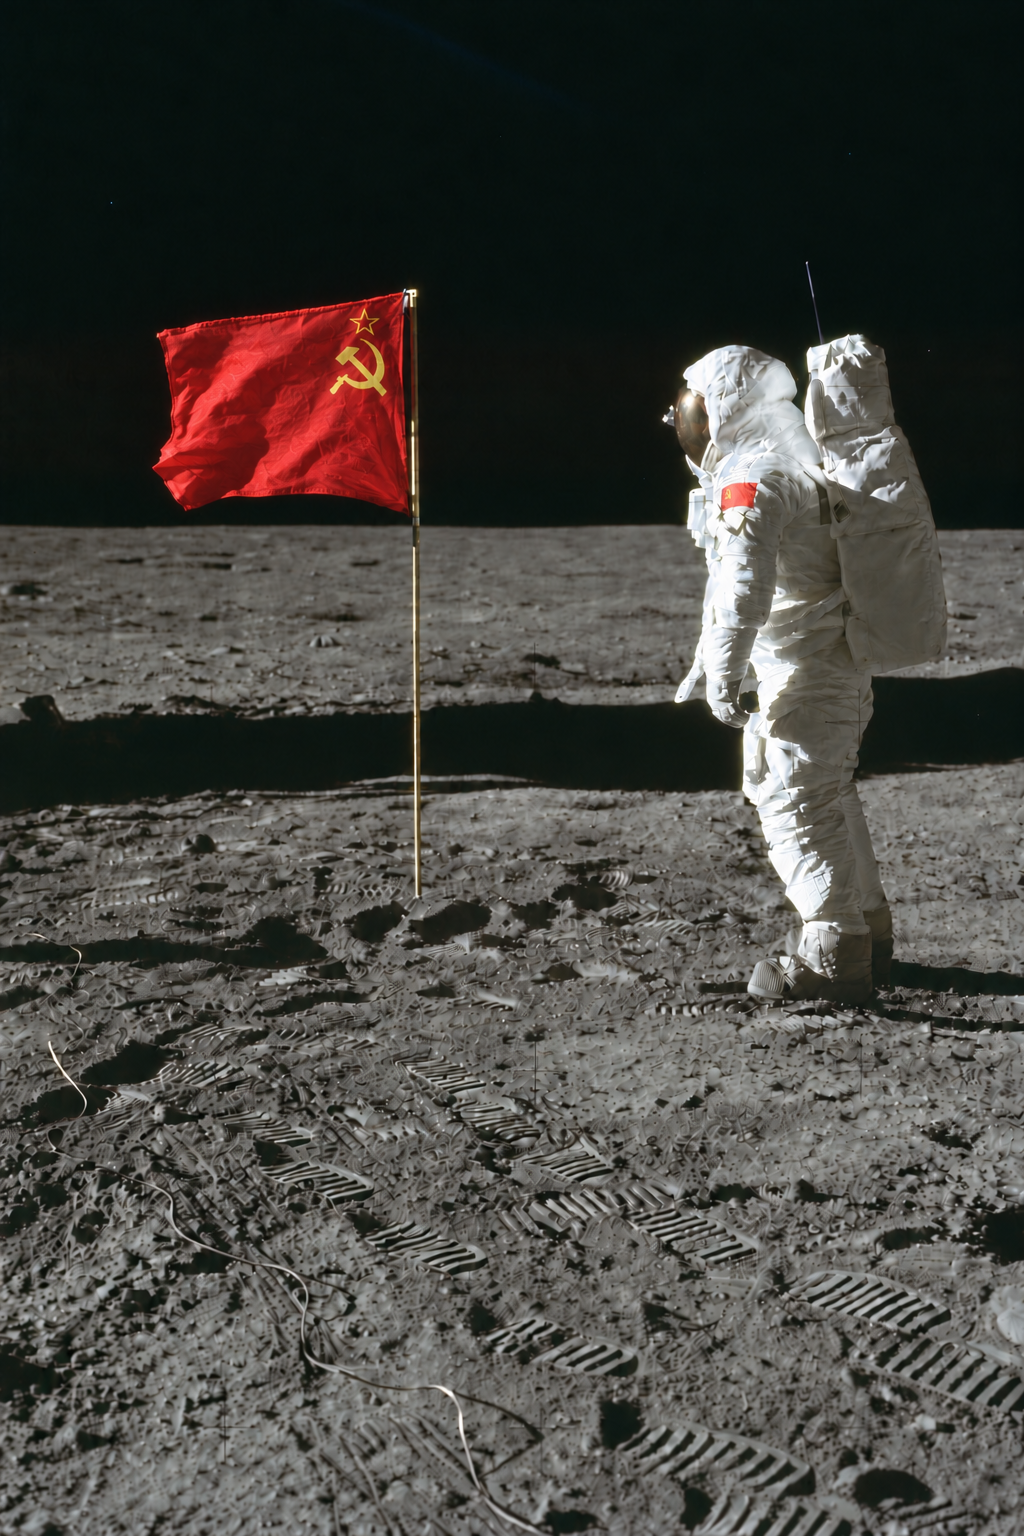
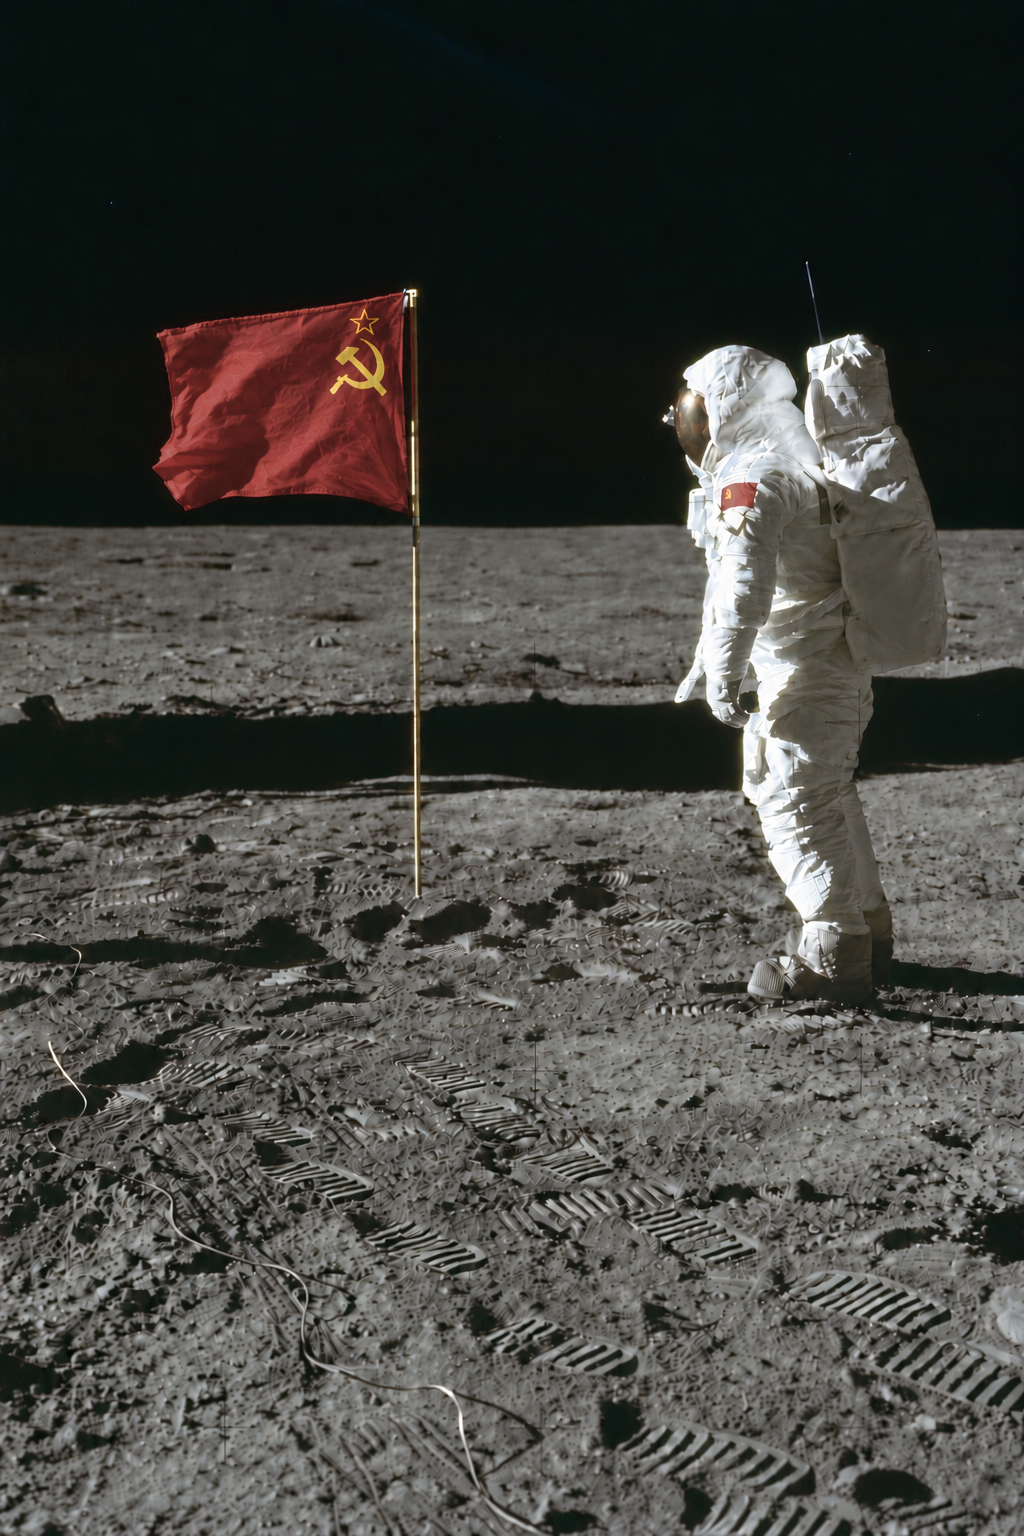
Match Apollo flag reds to muted reference without regeneration

Changed region(s): [[0.1562, 0.1875, 0.4062, 0.3438], [0.6875, 0.3125, 0.75, 0.3438]]

diff --git a/projects/false-negative/originals/Apollo 11 moonlanding/color-match/match_flag_red.py b/projects/false-negative/originals/Apollo 11 moonlanding/color-match/match_flag_red.py
@@ -1,0 +1,162 @@
+"""Match only flag reds to the existing muted-red artwork; never regenerate pixels.
+
+Run from any directory with Python, NumPy and Pillow. Inputs come from the fixed
+pre-grade Git revision, so rerunning this script does not compound the adjustment.
+The local reference PNG is read only. The six artwork PNGs and report are updated.
+"""
+
+import hashlib
+import io
+import json
+from pathlib import Path
+import subprocess
+
+import numpy as np
+from PIL import Image
+
+
+FOLDER = Path(__file__).resolve().parent.parent
+BASELINE = "b05f119926586eedf489a7c5d04b1c6436294976"
+REFERENCE = "Soviet Flag on the Moon.png"
+REFERENCE_BOX = (440, 270, 660, 440)
+# Tight flag-area bounds: planted cloth, shoulder patches, backpack and decal.
+# The number selects how many initial areas supply the photo's color sample.
+REGIONS = {
+    "Soviet Flag - Alternate Astronaut Pose.png": (
+        [(148, 285, 410, 525), (713, 477, 762, 518)], 1),
+    "Soviet Flag - Open Ground and Solar Wind Experiment.png": (
+        [(1027, 204, 1219, 347)], 1),
+    "Soviet Flag - Long Shadows.png": ([(327, 130, 559, 340)], 1),
+    "Soviet Flag - Working Beside the Lunar Module.png": (
+        [(90, 269, 291, 412), (1255, 357, 1288, 386),
+         (1363, 308, 1435, 370)], 1),
+    "Soviet Flags - Lunar Surface Portrait.png": ([(623, 292, 727, 380)], 1),
+    "Soviet Flags - Apollo Crew Portrait.png": (
+        [(508, 545, 599, 642), (892, 305, 1016, 402),
+         (1329, 582, 1475, 680)], 3),
+}
+
+
+def rgb_to_hsv(rgb):
+    high, low = rgb.max(axis=-1), rgb.min(axis=-1)
+    delta = high - low
+    safe_delta = np.where(delta > 0, delta, 1)
+    red, green, blue = np.moveaxis(rgb, -1, 0)
+    hue = np.where(high == red, (green - blue) / safe_delta,
+                   np.where(high == green, 2 + (blue - red) / safe_delta,
+                            4 + (red - green) / safe_delta))
+    hue = np.where(delta > 0, (hue / 6) % 1, 0)
+    saturation = np.divide(delta, high, out=np.zeros_like(high), where=high > 0)
+    return np.stack((hue, saturation, high), axis=-1)
+
+
+def hsv_to_rgb(hsv):
+    hue, saturation, value = np.moveaxis(hsv, -1, 0)
+    sector = np.floor(hue * 6).astype(int) % 6
+    fraction = hue * 6 - np.floor(hue * 6)
+    p = value * (1 - saturation)
+    q = value * (1 - fraction * saturation)
+    t = value * (1 - (1 - fraction) * saturation)
+    red = np.choose(sector, (value, q, p, p, t, value))
+    green = np.choose(sector, (t, value, value, q, p, p))
+    blue = np.choose(sector, (p, p, t, value, value, q))
+    return np.stack((red, green, blue), axis=-1)
+
+
+def smoothstep(low, high, value):
+    position = np.clip((value - low) / (high - low), 0, 1)
+    return position * position * (3 - 2 * position)
+
+
+def red_weight(rgb):
+    hsv = rgb_to_hsv(rgb)
+    hue_distance = np.minimum(hsv[..., 0], 1 - hsv[..., 0])
+    # Protect yellow/gold emblems, neutral stitching, suits and mixed edge pixels.
+    hue_weight = 1 - smoothstep(0.035, 0.080, hue_distance)
+    redness = (rgb[..., 0] - np.maximum(rgb[..., 1], rgb[..., 2]))
+    redness /= np.maximum(rgb[..., 0], 1 / 255)
+    return (hue_weight * smoothstep(0.10, 0.30, redness)
+            * smoothstep(0.025, 0.075, hsv[..., 2]))
+
+
+def color_sample(rgb, boxes):
+    samples = []
+    for x0, y0, x1, y1 in boxes:
+        crop = rgb[y0:y1, x0:x1]
+        hsv = rgb_to_hsv(crop)
+        core = ((red_weight(crop) > 0.999) & (hsv[..., 2] > 0.15)
+                & (hsv[..., 2] < 0.95))
+        samples.append(hsv[core])
+    samples = np.concatenate(samples)
+    if len(samples) < 50:
+        raise ValueError("Insufficient red flag pixels for a reliable color sample")
+    hue = np.median((samples[:, 0] + 0.5) % 1 - 0.5) % 1
+    return np.array([hue, np.median(samples[:, 1]), np.median(samples[:, 2])])
+
+
+def main():
+    root = Path(subprocess.check_output(
+        ["git", "rev-parse", "--show-toplevel"], cwd=FOLDER, text=True).strip())
+    reference_bytes = (FOLDER / REFERENCE).read_bytes()
+    reference = np.array(Image.open(io.BytesIO(reference_bytes)).convert("RGB")) / 255
+    target = color_sample(reference, [REFERENCE_BOX])
+    report = {"baseline_commit": BASELINE, "reference": REFERENCE,
+              "reference_sha256": hashlib.sha256(reference_bytes).hexdigest(),
+              "reference_median_hsv": target.tolist(), "images": []}
+    for name, (boxes, sample_count) in REGIONS.items():
+        relative = (FOLDER / name).relative_to(root).as_posix()
+        source_bytes = subprocess.check_output(
+            ["git", "show", f"{BASELINE}:{relative}"], cwd=root)
+        source_image = Image.open(io.BytesIO(source_bytes)).convert("RGB")
+        original = np.array(source_image)
+        rgb = original.astype(float) / 255
+        sample = color_sample(rgb, boxes[:sample_count])
+        hue_shift = (target[0] - sample[0] + 0.5) % 1 - 0.5
+        saturation_scale = min(1.0, target[1] / sample[1])
+        value_scale = min(1.0, target[2] / sample[2])
+        result = original.copy()
+        permitted = np.zeros(original.shape[:2], dtype=bool)
+        protected = np.ones(original.shape[:2], dtype=bool)
+        for x0, y0, x1, y1 in boxes:
+            crop = rgb[y0:y1, x0:x1]
+            weight = red_weight(crop)
+            hsv = rgb_to_hsv(crop)
+            hsv[..., 0] = (hsv[..., 0] + hue_shift) % 1
+            hsv[..., 1] *= saturation_scale
+            hsv[..., 2] *= value_scale
+            graded = hsv_to_rgb(hsv)
+            blended = crop + weight[..., None] * (graded - crop)
+            result[y0:y1, x0:x1] = np.clip(np.rint(blended * 255), 0, 255).astype(np.uint8)
+            permitted[y0:y1, x0:x1] |= weight > 0
+            protected[y0:y1, x0:x1] &= weight == 0
+        changed = np.any(result != original, axis=-1)
+        assert not np.any(changed & ~permitted), "A pixel outside a red mask changed"
+        assert np.array_equal(result[protected], original[protected])
+        assert source_image.size in ((1536, 1024), (1024, 1536))
+        Image.fromarray(result).save(FOLDER / name)
+        with Image.open(FOLDER / name) as saved:
+            saved.verify()
+        assert np.array_equal(np.array(Image.open(FOLDER / name)), result)
+        after = color_sample(result / 255, boxes[:sample_count])
+        assert abs(after[1] - target[1]) < 0.02
+        assert abs(after[2] - target[2]) < 0.02
+        entry = {"file": name, "flag_regions": boxes,
+                 "hue_shift_degrees": float(hue_shift * 360),
+                 "saturation_scale": float(saturation_scale),
+                 "value_scale": float(value_scale),
+                 "median_hsv_before": sample.tolist(),
+                 "median_hsv_after": after.tolist(),
+                 "changed_pixels": int(changed.sum()),
+                 "outside_red_masks_unchanged": True,
+                 "gold_and_neutral_pixels_unchanged": True,
+                 "output_sha256": hashlib.sha256((FOLDER / name).read_bytes()).hexdigest()}
+        report["images"].append(entry)
+        print(f"{name}: saturation x{saturation_scale:.3f}, brightness x{value_scale:.3f}; "
+              f"{changed.sum()} flag pixels changed, other pixels identical")
+    assert (FOLDER / REFERENCE).read_bytes() == reference_bytes
+    (Path(__file__).parent / "adjustments.json").write_text(
+        json.dumps(report, indent=2) + "\n", encoding="utf-8")
+
+
+if __name__ == "__main__":
+    main()

diff --git a/projects/false-negative/originals/Apollo 11 moonlanding/NEW-EDITS.md b/projects/false-negative/originals/Apollo 11 moonlanding/NEW-EDITS.md
@@ -1,6 +1,6 @@
 # False Negatives - additional Apollo 11 edits
 
-Created and revised 2 November 2026 with the built-in image_gen tool. Six fictional AI-edited artworks substitute Soviet flags throughout each frame, including flags on suits, backpacks and spacecraft wherever visible. Three landscapes are 1536 x 1024 (3:2); three portraits are 1024 x 1536 (2:3).
+Created and revised 2 November 2026. The initial edits used the built-in image_gen tool; the final red color match uses local Python/Pillow/NumPy processing without regeneration. Six fictional artworks substitute Soviet flags throughout each frame, including flags on suits, backpacks and spacecraft wherever visible. Three landscapes are 1536 x 1024 (3:2); three portraits are 1024 x 1536 (2:3).
 
 | Image | Local source | Pixels | Prompts |
 | --- | --- | --- | --- |
@@ -13,4 +13,6 @@ Created and revised 2 November 2026 with the built-in image_gen tool. Six fictio
 
 The four planted-flag views were corrected again to remove residual American stripes and star patterns. The final edits use the plain red cloth in Soviet Flag on the Moon.png as their design and material reference, replacing the old surface with continuous red fabric, irregular folds, and a single gold hammer-and-sickle with an outlined star near the hoist. Cloth folds were allowed to change to eliminate the old pattern. Soviet designs also replace the alternate-pose astronaut's shoulder flag and both the backpack patch and spacecraft decal in the lunar-module view. The lunar-surface portrait replaces its visible sleeve flag; the crew portrait replaces all three sleeve flags. Patches retain cloth texture and spacecraft markings remain flat decals. NASA badges and name labels are retained.
 
-All six outputs were visually reviewed, including small flag areas. The four corrected planted flags were checked specifically for stripe-shaped light bands, repeating American star ghosts and emblem placement, and their PNG integrity and exact aspect ratios were verified. AI editing can introduce local variations in folds and other details; these are fictional artworks, not archival reproductions. The source JPEGs, two additional portraits and original Soviet Flag on the Moon.png were left untouched in this correction. Adjacent prompt files record the final selected prompts.
+The final color pass matches the muted red in Soviet Flag on the Moon.png. It adjusts saturation, brightness and a small hue offset only within red pixels in eleven flag areas across all six images, including sleeve badges, the backpack badge and spacecraft decal. One adjustment per photograph preserves relative differences in lighting between its flags. The gold emblems and neutral fabric are excluded from the red selection. All pixels outside the selected red areas remain byte-for-byte identical, preserving the existing textures, folds, scene and composition.
+
+The [color-matching script](color-match/match_flag_red.py) reads a fixed pre-grade Git revision so rerunning it does not compound the adjustment. It requires NumPy and Pillow. The [adjustment report](color-match/adjustments.json) records reference and output hashes, color parameters, flag-area bounds and validation results. All six PNGs passed integrity, pixel-preservation and aspect-ratio checks and were visually reviewed against the reference. The source JPEGs and original Soviet Flag on the Moon.png remain untouched. Adjacent prompt files record the earlier generation prompts and identify the later local color pass.
